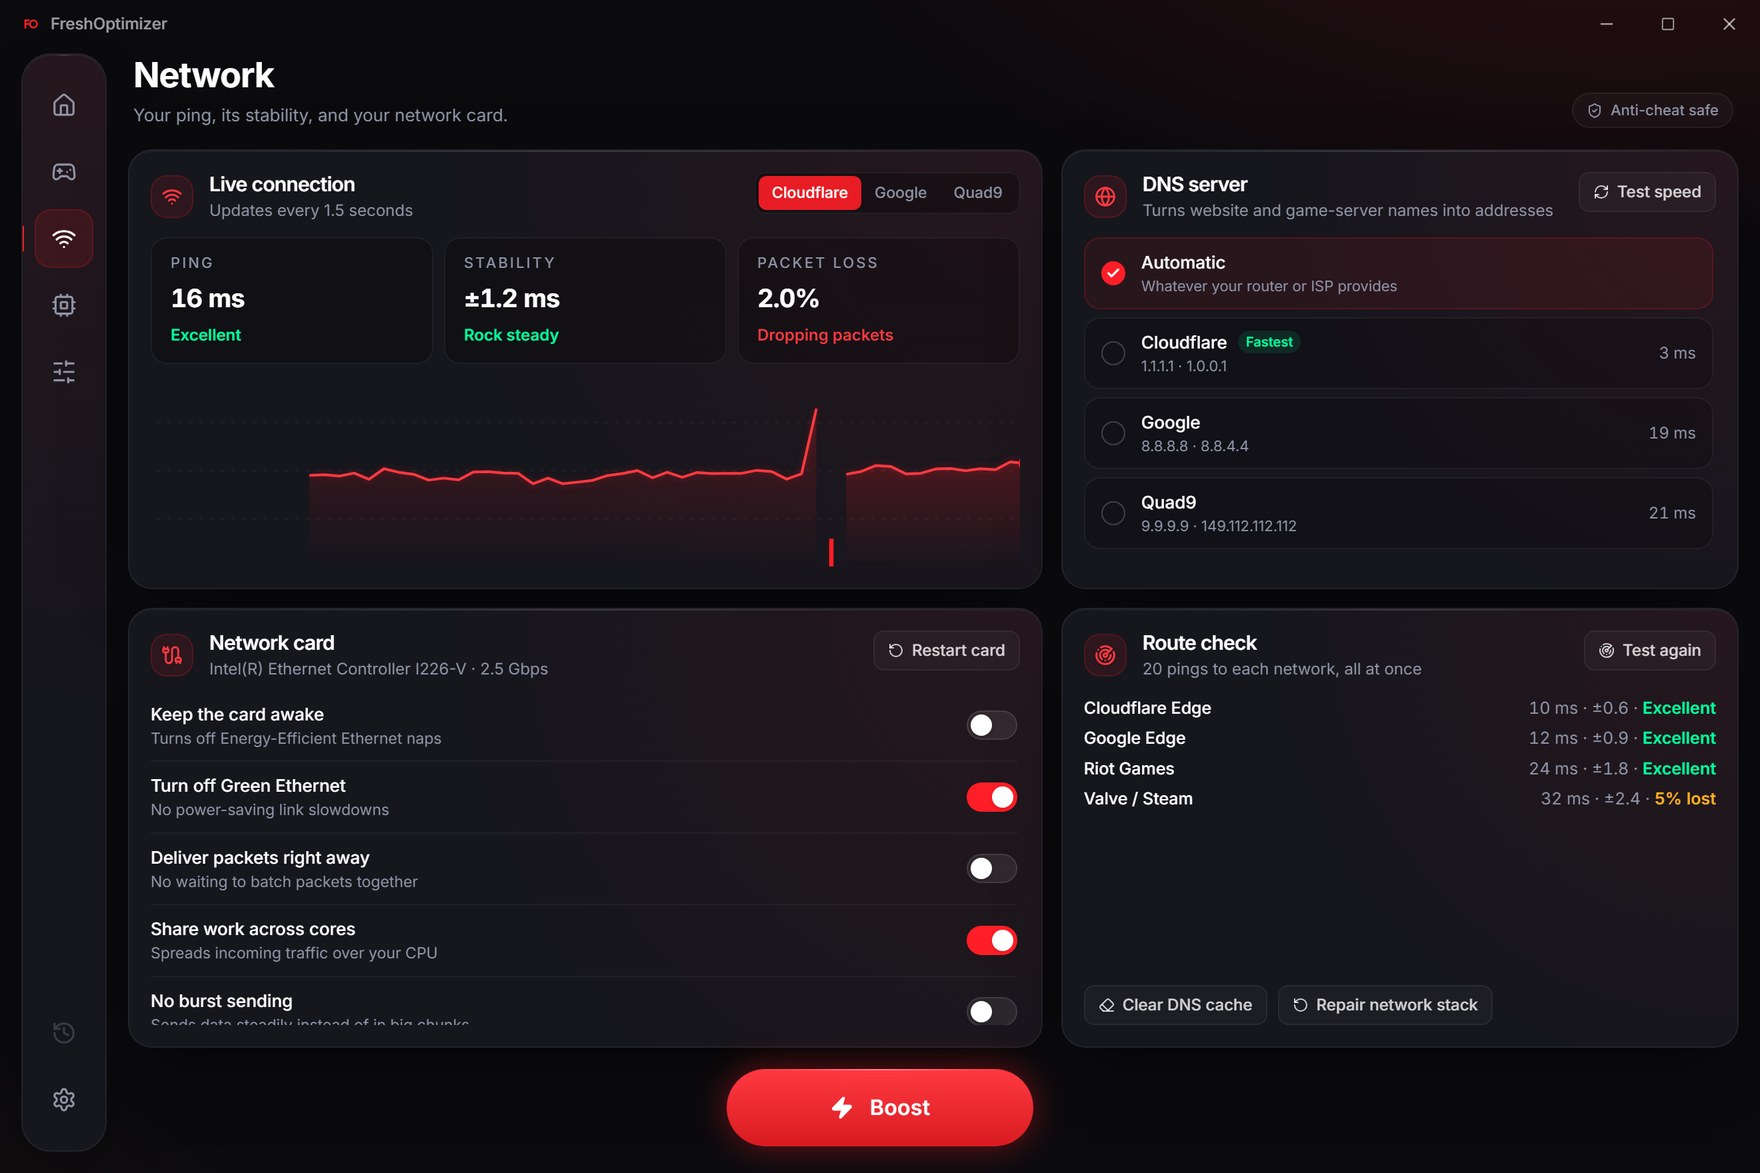
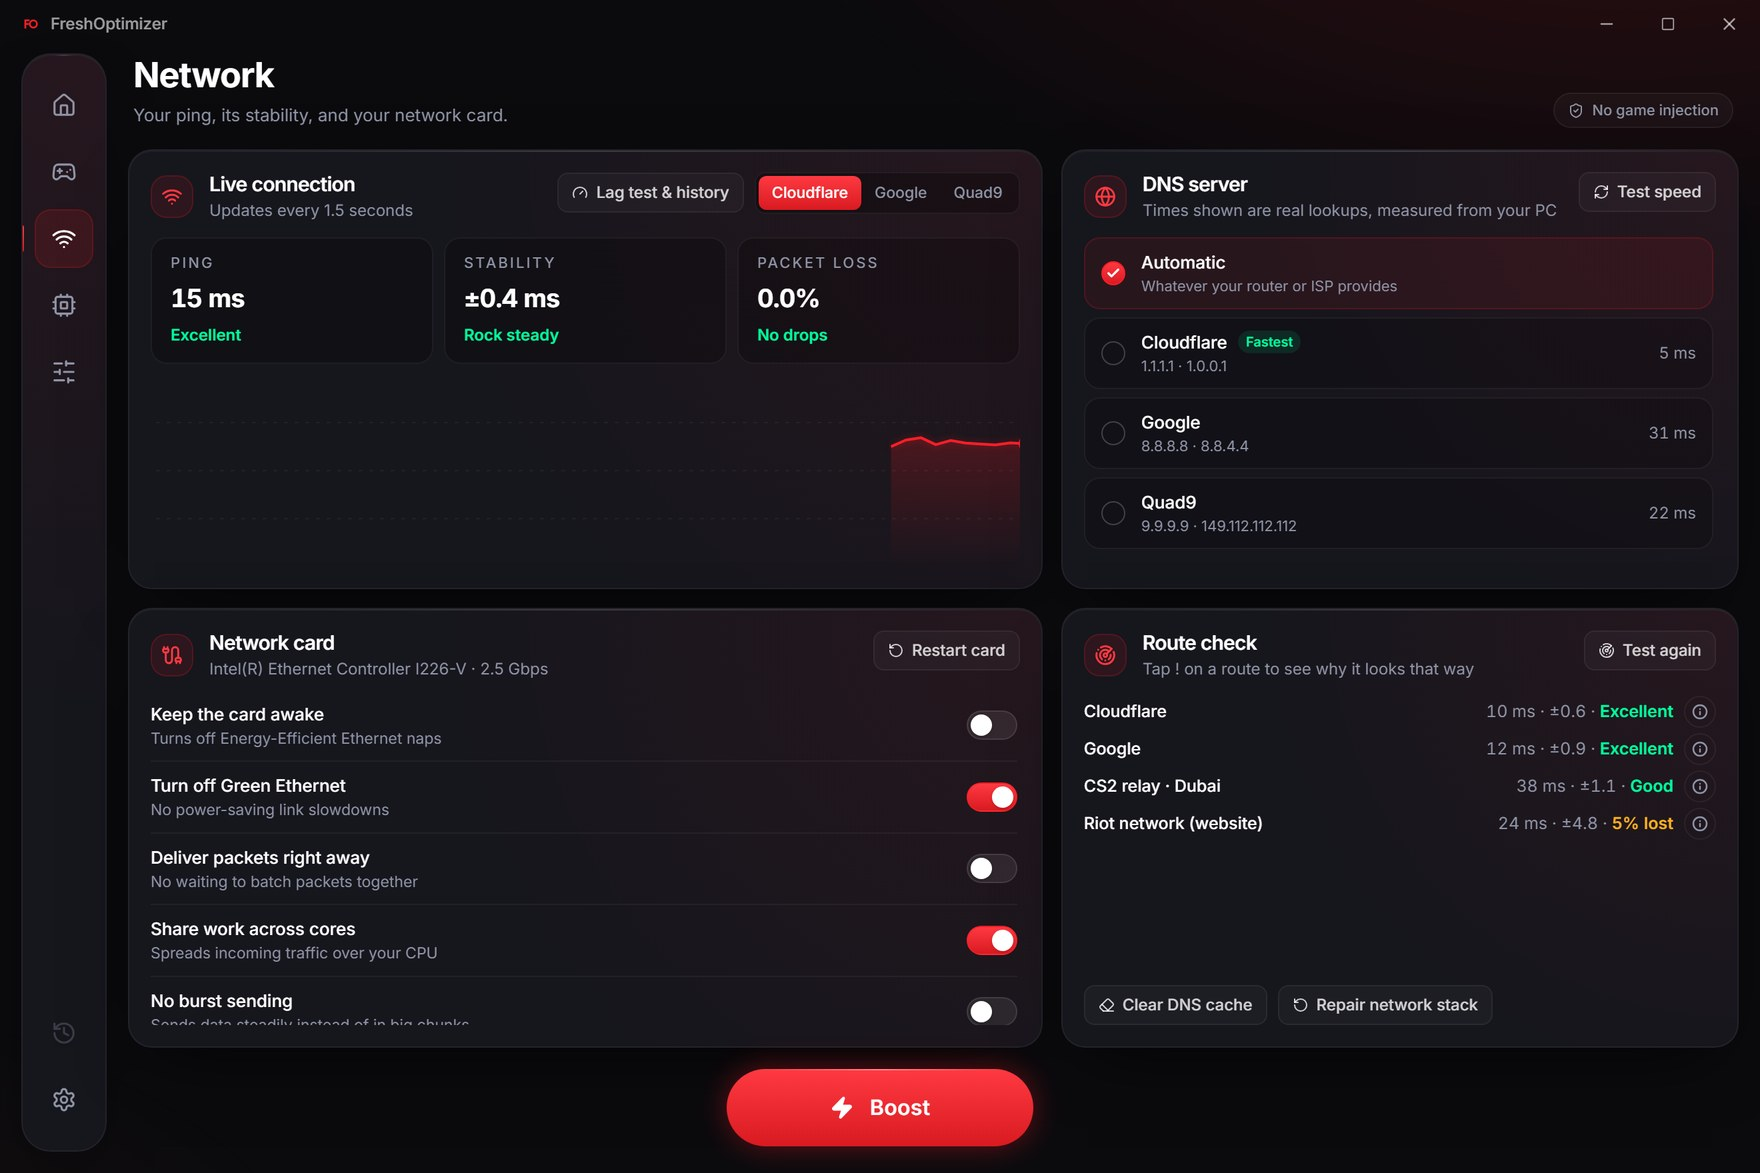
v0.6.0: MIT licence, README for the new features, installer mentions the tray

diff --git a/setup/ui/index.html b/setup/ui/index.html
@@ -72,8 +72,8 @@
 
       <!-- app is running -->
       <section class="screen" id="s-running">
-        <h1>FreshOptimizer is open</h1>
-        <p class="lead">It needs to close before we can continue. Your tweaks stay exactly as they are.</p>
+        <h1>FreshOptimizer is running</h1>
+        <p class="lead">It may be in the system tray, next to the clock. It needs to close before we can continue. Your tweaks stay exactly as they are.</p>
         <div class="actions">
           <button class="btn primary" id="close-app">Close it and continue</button>
           <button class="btn ghost" id="running-cancel">Cancel</button>

diff --git a/src/lib/mock.ts b/src/lib/mock.ts
@@ -331,7 +331,7 @@ export async function handle<T>(cmd: string, args?: Record<string, unknown>): Pr
     case "open_data_folder":
       return r(undefined);
     case "app_version":
-      return r("0.5.1");
+      return r("0.6.0");
     case "fps_status":
       return r(fps);
     case "fps_install":

diff --git a/README.md b/README.md
@@ -8,10 +8,11 @@
 <img src="https://img.shields.io/badge/Windows-10%20%7C%2011-0B0B0E?style=for-the-badge&logo=windows&logoColor=white" alt="Windows 10 and 11" />
 <img src="https://img.shields.io/badge/No%20game-injection-0B0B0E?style=for-the-badge&logo=shield&logoColor=00FF9D" alt="No game injection" />
 <img src="https://img.shields.io/github/downloads/mohibk0004-del/fresh-optimizer/total?style=for-the-badge&labelColor=0B0B0E&color=2a2a2b" alt="Downloads" />
+<img src="https://img.shields.io/badge/License-MIT-0B0B0E?style=for-the-badge" alt="MIT licence" />
 
 <h3>Smoother frames. Lower ping. One button.</h3>
 
-<p>FreshOptimizer tunes Windows, your network card and your power plan for <b>VALORANT</b>, <b>Counter-Strike 2</b>, <b>Apex Legends</b> and <b>Overwatch 2</b>,<br/>then switches to full power the moment a match starts. Every change is recorded first, and one click puts it all back.</p>
+<p>FreshOptimizer tunes Windows, your network card and your power plan for <b>28 games</b>, from <b>VALORANT</b>, <b>Counter-Strike 2</b> and <b>Fortnite</b> to <b>Marvel's Spider-Man 2</b> and <b>Cyberpunk 2077</b>,<br/>then switches to full power the moment you start playing. Every change is recorded first, and one click puts it all back.</p>
 
 <a href="https://github.com/mohibk0004-del/fresh-optimizer/releases/latest"><b>Download for Windows</b></a>
 &nbsp;·&nbsp;
@@ -31,7 +32,7 @@
 
 1. **Download** `FreshOptimizer-Setup.exe` from the [latest release](https://github.com/mohibk0004-del/fresh-optimizer/releases/latest).
 2. **Install.** One click. It lands in Program Files with a Start menu shortcut.
-3. **Press Boost.** Then launch your game. FreshOptimizer notices and goes full power automatically.
+3. **Press Boost** once. Then just play: FreshOptimizer sits in the tray and goes full power whenever a supported game starts.
 
 > [!NOTE]
 > The installer isn't code-signed yet, so Windows SmartScreen may say *"Windows protected your PC"*. Click **More info → Run anyway**. FreshOptimizer asks for administrator rights because network-card and power settings require them.
@@ -45,25 +46,28 @@
 <td width="50%" valign="top">
 
 ### 🏠 One-click Boost
-26 hand-picked tweaks across your network, Windows, games and power plan, applied in seconds with a live checklist. Plain-English names, with the exact Windows setting one hover away.
+26 hand-picked tweaks across your network, Windows, games and power plan, applied once in seconds with a live checklist. Pick a **profile** (Competitive, Balanced or Laptop) or choose every switch yourself.
 
-### 🎮 Match mode, automatic
-When a supported game starts: **high priority**, your **fastest cores** on hybrid Intel CPUs, a **0.5 ms system timer** and a **low-latency power plan**. When it closes, everything goes back to normal.
+### 🎮 Full power for games, automatic
+**12 competitive and 16 story games**, found in Steam, Epic Games, GOG, Riot, Battle.net, EA app and Ubisoft Connect. When one starts: **high priority**, your **fastest cores** on hybrid Intel CPUs, a **0.5 ms system timer** and a **low-latency power plan**. Optional: **pause Windows Update** and **calm busy background apps** while you play. Everything goes back when you quit.
+
+### 📈 Real FPS, before and after
+Average FPS, 1% and 0.1% lows and stutters for every session, measured with Intel's open-source **PresentMon**, plus a before/after Boost comparison with honest caveats. An **in-game settings check** reads CS2, Apex, VALORANT, Rainbow Six Siege and Fortnite settings files and points out VSync, windowed mode, a low refresh rate or Reflex left off.
 
 ### 🌐 Network & packet guard
-Live ping, stability and packet-loss graph. Route check against Cloudflare, Google, **your nearest real CS2 relay** and Riot's network. Tap **!** on any route for a hop-by-hop trace that explains where the trouble starts and what to do about it. **DNS switcher** timed with real lookups, not pings.
+Live ping, stability and packet-loss graph with a **7-day history**. A **lag-under-load (bufferbloat) test** grades how much your ping rises when the connection is busy. Route check against Cloudflare, Google, **your nearest real CS2 relay** and Riot's network; tap **!** for a hop-by-hop explanation. **DNS switcher** timed with real lookups, not pings.
 
 </td>
 <td width="50%" valign="top">
 
 ### 💻 Know your PC
-CPU, GPU and memory at a glance, an **XMP/EXPO check**, a **smoothness test** that catches drivers stealing your CPU (the cause of most micro-stutter), and a **timer resolution** control: off, during matches, or always at 0.5 ms.
+CPU, GPU and memory at a glance, an **XMP/EXPO check**, a **smoothness test** that catches drivers stealing your CPU, a **timer resolution** control, a **monitor refresh-rate check** that fixes screens stuck at 60 Hz (with a 15-second keep-or-revert), and a **mouse polling-rate test**.
 
 ### 🚀 Startup apps manager
 See everything that starts with Windows and switch it off with one tap. Uses the same switches as Task Manager, so nothing is ever deleted.
 
 ### 🎨 Make it yours
-Eight themes, a custom accent colour, built-in wallpapers or **your own image**, six background animations, and Dynamic Island-style notifications. Launch at startup, auto-boost and **in-app updates**.
+Eight themes, custom or gradient accents, liquid glass, built-in wallpapers or **your own image or GIF**, six background animations, and Dynamic Island-style notifications. **Tray icon**, **Alt+Shift+F** hotkey, launch at startup and **in-app updates**.
 
 </td>
 </tr>
@@ -80,12 +84,12 @@ Eight themes, a custom accent colour, built-in wallpapers or **your own image**,
 
 <table>
 <tr>
-<td width="50%"><img src="docs/img/games.jpg" alt="Games page" /><p align="center"><sub><b>Games</b>: per-game boost, priority, fastest cores and a Play button that launches through Steam, Riot or Battle.net.</sub></p></td>
+<td width="50%"><img src="docs/img/games.jpg" alt="Games page" /><p align="center"><sub><b>Games</b>: competitive, story and FPS tabs, per-game priority, an in-game settings check and a Play button that launches through the game's own store.</sub></p></td>
 <td width="50%"><img src="docs/img/network.jpg" alt="Network page" /><p align="center"><sub><b>Network</b>: live ping graph, DNS switcher, network-card switches and route check.</sub></p></td>
 </tr>
 <tr>
-<td width="50%"><img src="docs/img/pc.jpg" alt="My PC page" /><p align="center"><sub><b>My PC</b>: hardware, smoothness test, Windows gaming settings and startup apps.</sub></p></td>
-<td width="50%"><img src="docs/img/tweaks.jpg" alt="Tweaks page" /><p align="center"><sub><b>Tweaks</b>: choose exactly what Boost changes. Every switch explains itself.</sub></p></td>
+<td width="50%"><img src="docs/img/pc.jpg" alt="My PC page" /><p align="center"><sub><b>My PC</b>: hardware, smoothness test, timer, refresh-rate and mouse checks, and startup apps.</sub></p></td>
+<td width="50%"><img src="docs/img/tweaks.jpg" alt="Tweaks page" /><p align="center"><sub><b>Tweaks</b>: pick a profile or choose exactly what Boost changes. Every switch explains itself.</sub></p></td>
 </tr>
 </table>
 
@@ -118,7 +122,10 @@ FreshOptimizer is built to be boring where it matters.
 | **Clean uninstall** | The uninstaller can restore your original Windows settings before it removes the app, its shortcuts and its startup task. |
 | **Updates from one place** | In-app updates only ever download from this repository's GitHub Releases. |
 | **Honest numbers** | Measurements say what they measure: DNS speed comes from real lookups, the smoothness test reports a typical value and shows run-to-run differences, and the Riot route is labelled as Riot's website network because VALORANT servers don't answer pings. |
-| **No telemetry** | No accounts, no analytics, no ads. The only network traffic is pings you can see on screen and the optional update check. |
+| **Read-only game checks** | The in-game settings check and FPS measurement never touch the game. PresentMon reads Windows' own graphics timing (ETW), the same way Task Manager does. It's only downloaded when you ask, pinned to Intel's v2.6.0 release and checked against its SHA-256 before use. |
+| **Gentle with your apps** | Busy background apps can be lowered in priority (undone when your game closes) or asked to close the normal way. Nothing is ever force-closed, and Windows and anti-cheat processes are left alone. |
+| **Small when closed** | Closing the window closes the whole interface, so only the small background engine stays in the tray. Turn this off in Settings to make closing quit the app. |
+| **No telemetry** | No accounts, no analytics, no ads. Network traffic: pings you can see on screen, the optional update check, the lag test (Cloudflare's speed test servers, only when you run it) and the one-time PresentMon download. |
 
 <br />
 
@@ -192,6 +199,9 @@ npm run dist       # release build + installer -> release/FreshOptimizer-Setup-<
 | `ping.rs` · `latency.rs` | Multi-threaded ICMP jitter / loss probe; user-mode DPC stall probe |
 | `engine.rs` · `games.rs` · `prefs.rs` | Game detection, per-game settings, priority / affinity, timer and power plan in-match |
 | `startup.rs` · `updates.rs` | Startup apps (Task Manager flags), launch-at-login task, GitHub update check |
+| `fps.rs` · `advisor.rs` | PresentMon capture and summaries; read-only in-game settings check |
+| `matchtime.rs` · `display.rs` · `agent.rs` | Background-app watcher and Windows Update pause; refresh-rate check; tray, hotkey and settings that work with the window closed |
+| `selftest.rs` | `--selftest <report.json>`: applies every change, verifies it, undoes it and verifies again. Run it in Windows Sandbox with `scripts/sandbox/run-selftest.ps1` |
 
 README screenshots are captured from the demo build: `npm run dev`, open `http://localhost:1420/?shot=1&page=<page>&theme=<theme>` at 1320×880, then run `python docs/make_readme_art.py`.
 
@@ -217,9 +227,23 @@ Click the clock icon at the bottom of the sidebar, or <b>Undo all changes</b> on
 Your PC was already set the right way, or your network card doesn't have that setting. Nothing is forced.
 </details>
 
+<details><summary><b>Why is it still running after I close it?</b></summary><br />
+So it can switch to full power when you start a game. The window really closes (it uses almost no memory then); FreshOptimizer stays as a tray icon next to the clock. Right-click it and choose <b>Quit</b>, or turn off <i>Keep running in the tray</i> in Settings.
+</details>
+
+<details><summary><b>Is the before/after FPS comparison proof that Boost works?</b></summary><br />
+It's your real measurements, but FPS also depends on the map, graphics settings, game updates and what else is running. Treat a difference of a few percent as noise and compare several sessions on each side.
+</details>
+
 <details><summary><b>Do I need to restart?</b></summary><br />
 Only for <i>Sharpen the system clock</i> and <i>Repair network stack</i>. Everything else applies straight away; the Nagle change applies to new connections.
 </details>
+
+<br />
+
+## 📄 Licence
+
+FreshOptimizer is open source under the [MIT licence](LICENSE). FPS measurement uses [PresentMon](https://github.com/GameTechDev/PresentMon) by Intel, also MIT-licensed, downloaded on request.
 
 <br />
 
